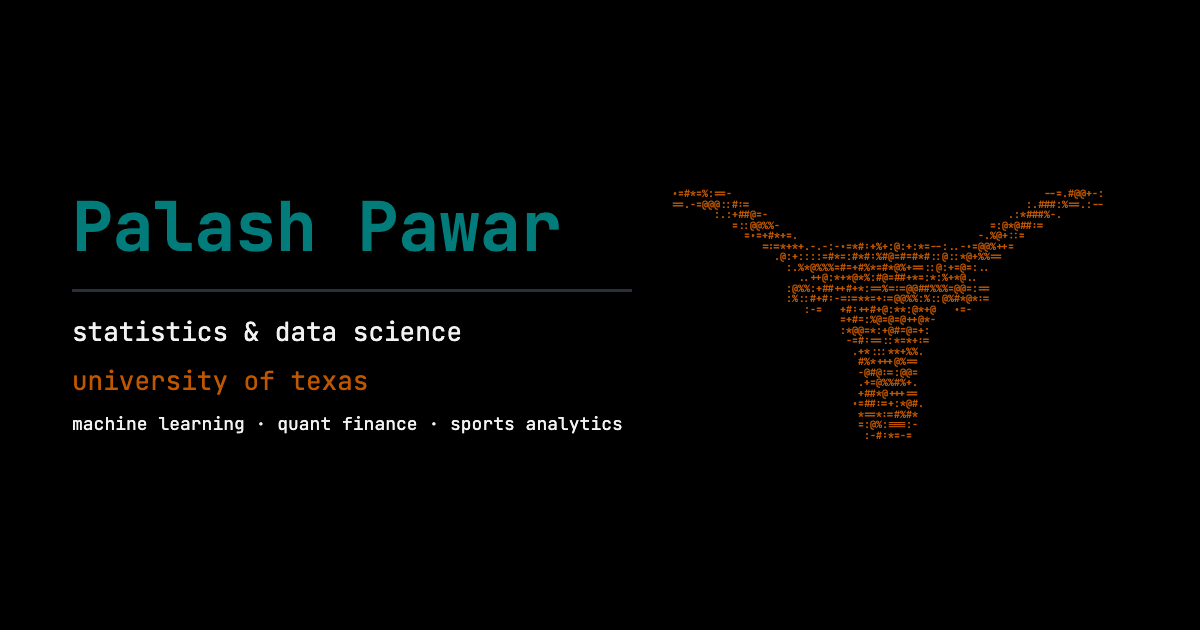
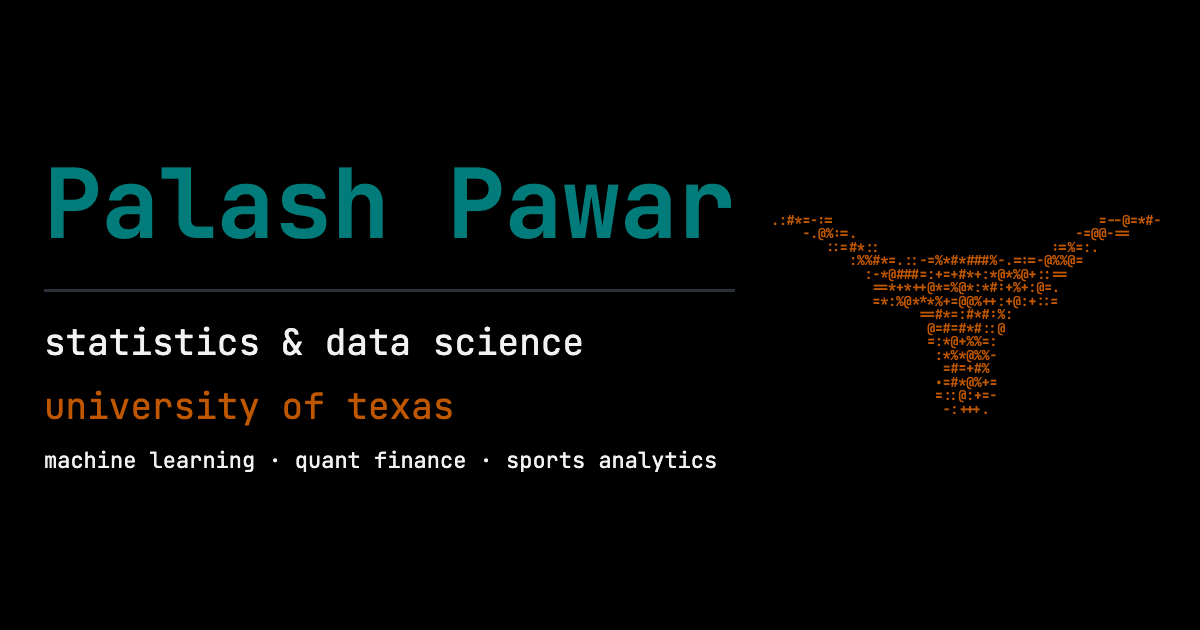
Preview card: larger text for LinkedIn featured thumbnail

diff --git a/projects.html b/projects.html
@@ -11,11 +11,11 @@
   <meta property="og:title" content="Projects — Palash Pawar"/>
   <meta property="og:description" content="Statistics & Data Science at UT Austin. Machine learning, quant finance and sports analytics projects."/>
   <meta property="og:url" content="https://palashpawar.github.io/projects.html"/>
-  <meta property="og:image" content="https://palashpawar.github.io/img/og-card.png?v=5"/>
+  <meta property="og:image" content="https://palashpawar.github.io/img/og-card.png?v=6"/>
   <meta property="og:image:width" content="1200"/>
   <meta property="og:image:height" content="630"/>
   <meta name="twitter:card" content="summary_large_image"/>
-  <meta name="twitter:image" content="https://palashpawar.github.io/img/og-card.png?v=5"/>
+  <meta name="twitter:image" content="https://palashpawar.github.io/img/og-card.png?v=6"/>
   <!-- site icon -->
   <link rel="icon" href="favicon.svg?v=4" type="image/svg+xml"/>
   <link rel="icon" href="favicon-32.png?v=4" sizes="32x32" type="image/png"/>

diff --git a/github.html b/github.html
@@ -11,11 +11,11 @@
   <meta property="og:title" content="GitHub — Palash Pawar"/>
   <meta property="og:description" content="Statistics & Data Science at UT Austin. Machine learning, quant finance and sports analytics projects."/>
   <meta property="og:url" content="https://palashpawar.github.io/github.html"/>
-  <meta property="og:image" content="https://palashpawar.github.io/img/og-card.png?v=5"/>
+  <meta property="og:image" content="https://palashpawar.github.io/img/og-card.png?v=6"/>
   <meta property="og:image:width" content="1200"/>
   <meta property="og:image:height" content="630"/>
   <meta name="twitter:card" content="summary_large_image"/>
-  <meta name="twitter:image" content="https://palashpawar.github.io/img/og-card.png?v=5"/>
+  <meta name="twitter:image" content="https://palashpawar.github.io/img/og-card.png?v=6"/>
   <!-- site icon -->
   <link rel="icon" href="favicon.svg?v=4" type="image/svg+xml"/>
   <link rel="icon" href="favicon-32.png?v=4" sizes="32x32" type="image/png"/>

diff --git a/sports.html b/sports.html
@@ -11,11 +11,11 @@
   <meta property="og:title" content="Sports — Palash Pawar"/>
   <meta property="og:description" content="Statistics & Data Science at UT Austin. Machine learning, quant finance and sports analytics projects."/>
   <meta property="og:url" content="https://palashpawar.github.io/sports.html"/>
-  <meta property="og:image" content="https://palashpawar.github.io/img/og-card.png?v=5"/>
+  <meta property="og:image" content="https://palashpawar.github.io/img/og-card.png?v=6"/>
   <meta property="og:image:width" content="1200"/>
   <meta property="og:image:height" content="630"/>
   <meta name="twitter:card" content="summary_large_image"/>
-  <meta name="twitter:image" content="https://palashpawar.github.io/img/og-card.png?v=5"/>
+  <meta name="twitter:image" content="https://palashpawar.github.io/img/og-card.png?v=6"/>
   <!-- site icon -->
   <link rel="icon" href="favicon.svg?v=4" type="image/svg+xml"/>
   <link rel="icon" href="favicon-32.png?v=4" sizes="32x32" type="image/png"/>

diff --git a/map.html b/map.html
@@ -11,11 +11,11 @@
   <meta property="og:title" content="Places — Palash Pawar"/>
   <meta property="og:description" content="Statistics & Data Science at UT Austin. Machine learning, quant finance and sports analytics projects."/>
   <meta property="og:url" content="https://palashpawar.github.io/map.html"/>
-  <meta property="og:image" content="https://palashpawar.github.io/img/og-card.png?v=5"/>
+  <meta property="og:image" content="https://palashpawar.github.io/img/og-card.png?v=6"/>
   <meta property="og:image:width" content="1200"/>
   <meta property="og:image:height" content="630"/>
   <meta name="twitter:card" content="summary_large_image"/>
-  <meta name="twitter:image" content="https://palashpawar.github.io/img/og-card.png?v=5"/>
+  <meta name="twitter:image" content="https://palashpawar.github.io/img/og-card.png?v=6"/>
   <!-- site icon -->
   <link rel="icon" href="favicon.svg?v=4" type="image/svg+xml"/>
   <link rel="icon" href="favicon-32.png?v=4" sizes="32x32" type="image/png"/>

diff --git a/index.html b/index.html
@@ -19,11 +19,11 @@
   <meta property="og:title" content="Palash Pawar"/>
   <meta property="og:description" content="Statistics & Data Science at UT Austin. Machine learning, quant finance and sports analytics projects."/>
   <meta property="og:url" content="https://palashpawar.github.io/"/>
-  <meta property="og:image" content="https://palashpawar.github.io/img/og-card.png?v=5"/>
+  <meta property="og:image" content="https://palashpawar.github.io/img/og-card.png?v=6"/>
   <meta property="og:image:width" content="1200"/>
   <meta property="og:image:height" content="630"/>
   <meta name="twitter:card" content="summary_large_image"/>
-  <meta name="twitter:image" content="https://palashpawar.github.io/img/og-card.png?v=5"/>
+  <meta name="twitter:image" content="https://palashpawar.github.io/img/og-card.png?v=6"/>
   <!-- site icon -->
   <link rel="icon" href="favicon.svg?v=4" type="image/svg+xml"/>
   <link rel="icon" href="favicon-32.png?v=4" sizes="32x32" type="image/png"/>
